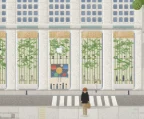
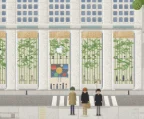
Draw Shane and Bee with Raufan at Apple Marunouchi.
Scenes can now set sig.company: people who step out of the door with him,
fan out beside him and walk off at his pace. Re-rendered the Apple
Marunouchi stamps and timeline stills, and bumped cache-busts.

Changed region(s): [[0.4722, 0.7059, 0.5556, 0.9832], [0.6389, 0.7311, 0.7222, 0.9832]]

diff --git a/last-seen/scenes/apple-marunouchi.js b/last-seen/scenes/apple-marunouchi.js
@@ -94,10 +94,12 @@
       road: '#9d9890', roadShade: '#8a857d', roadLite: '#b0aba3', zebra: '#f1efe9', zebraShade: '#d9d6cf', paveFar: '#cfcac0', kerbFar: '#b9b4aa',
       tree: '#6f8a48', tree2: '#88a35a', treeShade: '#4d6532', trunk: '#6a5848', trunkShade: '#4e4034', lampPost: '#3a3d40', lampPostShade: '#26282b', lampGlass: '#e9e6dc',
       bollard: '#5b5f63', bollardShade: '#43464a', bench: '#c9c3b8', benchShade: '#a9a297',
-      amHoodie: '#2b2b2e', amPants: '#b49b74', amString: '#4a4a4e', amCrown: '#7f8d99', amFront: '#c8692f', amShoe: '#ece6d6', amSole: '#f6f1e4', amShoeMark: '#8e9296', amSock: '#a3a3a0' },
+      amHoodie: '#2b2b2e', amPants: '#b49b74', amString: '#4a4a4e', amCrown: '#7f8d99', amFront: '#c8692f', amShoe: '#ece6d6', amSole: '#f6f1e4', amShoeMark: '#8e9296', amSock: '#a3a3a0',
+      shJacket: '#a8936b', shCap: '#56704a', shLegs: '#3d4656', shShoe: '#4a4744', shSole: '#e6e1d6', beCoat: '#2d2d32', beLegs: '#7c7b79', beShoe: '#2a2a2e', beSole: '#3c3c40' },
     light: { shadowAt: [[20, 70], [250, 80]],
       morning: { set: { sky: '#a9cfee', skyShade: '#cfe3f3', sunWash: '#fff1d2', tower: '#e2e3e1', towerShade: '#c3c8cb', pier: '#e7e8e5', pierShade: '#c4c9cc', reflectSky: '#c5dcef', twin: '#6a83a0', glassT: '#86aed6', mirror: '#9fb3b3',
-          amHoodie: '#2c2d31', amPants: '#ad9877', amCrown: '#7f8e9c', amFront: '#c26a36', amShoe: '#e6e4dc', amSock: '#a1a3a3' },
+          amHoodie: '#2c2d31', amPants: '#ad9877', amCrown: '#7f8e9c', amFront: '#c26a36', amShoe: '#e6e4dc', amSock: '#a1a3a3',
+          shJacket: '#a3916f', shCap: '#53704e', shLegs: '#3d4759', beCoat: '#26272c', beLegs: '#797b7d' },
         add: { back: [r(0, 0, 400, 92, 'sunWash', { a: .16 }), poly([0, VT - 12, 150, VT - 12, 60, 222, 0, 222], 'shadow', { a: .13 }), poly([150, VT - 12, CX + 44, VT - 12, CX + 44, 222, 60, 222], 'sunWash', { a: .1 }),
                       r(CX + 14, 0, 30, 214, 'sunWash', { a: .18 })].concat([1, 2, 3, 4, 5].map(function (i) { return r(P0 + i * PITCH + PW - 2.4, VT - 1, 2.4, VB - VT + 2, 'rim', { a: .55 }); })),
                front: [poly([150, 246, 262, 246, 318, 262, 206, 262], 'shadow', { a: .12 }), poly([40, 266, 44, 266, 150, 296, 140, 298], 'shadow', { a: .14 }), poly([368, 264, 378, 264, 400, 270, 400, 278], 'shadow', { a: .14 })] } },
@@ -105,7 +107,8 @@
                        front: [e(201, 247, 64, 3, 'shadow', { a: .14 })] } },
       golden: { set: { sky: '#e9c39f', skyShade: '#f3d6b6', tower: '#ecd3b4', towerShade: '#cdb093', towerLite: '#fbe7cb', pier: '#efd8bb', pierShade: '#cfb394', pierLite: '#fde9cf', reflectSky: '#f3c99f', twin: '#7a6c78', twin2: '#9b8584',
           alu: '#e3cdb3', aluLite: '#fff0da', aluShade: '#ae9a86', mirror: '#c9a488', mirror2: '#ecc8a4', side: '#c8a98a', far: '#e6c19a', glassT: '#d9a982', glassT2: '#f2c79c', road: '#ab9580', paveFar: '#dcc2a5',
-          tree: '#7f8a45', tree2: '#a3a454', amHoodie: '#352d2a', amPants: '#c6a477', amCrown: '#8f8c8e', amFront: '#d8763a', amShoe: '#f5e2c6', amSole: '#fbecd6', amSock: '#b4a596' },
+          tree: '#7f8a45', tree2: '#a3a454', amHoodie: '#352d2a', amPants: '#c6a477', amCrown: '#8f8c8e', amFront: '#d8763a', amShoe: '#f5e2c6', amSole: '#fbecd6', amSock: '#b4a596',
+          shJacket: '#bb9b6a', shCap: '#617146', shLegs: '#48475a', beCoat: '#2f2828', beLegs: '#8b7b70' },
         add: { back: [r(0, 0, 400, 92, 'sunWash', { a: .3 }), poly([0, 0, 400, 0, 400, 30, 0, 92], 'sunWash', { a: .12 }), poly([0, 70, 400, 40, 400, 244, 0, 244], 'shadow', { a: .1 }), r(CX + 14, 0, 30, 214, 'shadow', { a: .14 }), r(CX + 13, 0, 1.6, 214, 'rim', { a: .7 }),
                       r(0, 0, 1.6, 214, 'rim', { a: .5 })].concat([0, 1, 2, 3, 4, 5].map(function (i) { return r(P0 + i * PITCH, VT - 1, 1.6, VB - VT + 2, 'rim', { a: .7 }); })),
                front: [poly([140, 246, 262, 246, 190, 264, 60, 264], 'shadow', { a: .12 }), poly([368, 264, 378, 264, 300, 290, 280, 290], 'shadow', { a: .14 })] } },
@@ -116,18 +119,22 @@
           tree: '#1c2a20', tree2: '#243427', treeShade: '#111a14', trunk: '#1c1813', trunkShade: '#120f0c', lampPost: '#17181b', lampPostShade: '#0e0f11', lampGlass: '#ffe3ad',
           bollard: '#1e2024', bollardShade: '#141518', bench: '#2a2a30', benchShade: '#1e1e23',
           inWall: '#f7e3bf', inWallShade: '#dcbf90', inCeil: '#f0c682', inCeilD: '#c99a5a', inSlab: '#fbecd0', inPlanter: '#f6e4c4', inFloor: '#e6cc9f', inLeaf: '#6f8a3e', inLeaf2: '#8aa24c', inBamboo: '#93a050', inBamboo2: '#a8ad5c',
-          amHoodie: '#121214', amPants: '#5a4c3a', amString: '#2c2c30', amCrown: '#39414a', amFront: '#6e3a1e', amShoe: '#8f8a80', amSole: '#a6a094', amShoeMark: '#4a4c50', amSock: '#4c4c4b' },
+          amHoodie: '#121214', amPants: '#5a4c3a', amString: '#2c2c30', amCrown: '#39414a', amFront: '#6e3a1e', amShoe: '#8f8a80', amSole: '#a6a094', amShoeMark: '#4a4c50', amSock: '#4c4c4b',
+          shJacket: '#4f4534', shCap: '#25331f', shLegs: '#151a24', shShoe: '#1e1d1c', shSole: '#6a675f', beCoat: '#0e0e10', beLegs: '#2f2f31', beShoe: '#0d0d0e', beSole: '#1a1a1c' },
         add: { over: [0, 1, 2, 3, 4].map(function (i) { return { t: 'halo', x: P0 + PW + i * PITCH + (PITCH - PW) / 2, y: 226, rx: 30, ry: 9, n: 5, fill: 'pool', a: .05 }; }).concat([{ t: 'halo', x: 165, y: 216, rx: 170, ry: 9, n: 6, fill: 'pool', a: .07 },
           { t: 'halo', x: 41, y: 138, rx: 9, ry: 9, n: 5, fill: 'lamp', a: .12 }, { t: 'halo', x: 41, y: 262, rx: 30, ry: 6, n: 5, fill: 'pool', a: .05 }, { t: 'halo', x: 200, y: 250, rx: 120, ry: 12, n: 6, fill: 'pool', a: .035 }]) } } },
     breathe: { x: 136, y: 150, w: 50, h: 60, c: 'breathe', a: .04 },
     shoppers: [{ keys: [[0, 20], [10, 128], [13, 128], [23, 20]], period: 23, foot: 216, s: .5, coat: 'coatB', legs: 'legsDark', hair: 'hairDark', alpha: .95, shadow: false },
                { keys: [[0, 300], [8, 236], [11, 236], [19, 300]], period: 19, offset: 6, foot: 217, s: .5, coat: 'coatA', legs: 'legsDenim', hair: 'hairBrown', alpha: .95, shadow: false }],
-    passersby: [{ start: 6, every: 24, dir: -1, speed: 23, foot: 285, s: 1.24, coat: 'coatC', legs: 'legsDark', hair: 'hairDark', carry: 'tote', carryC: 'bagMark' },
+    passersby: [{ start: 11, every: 24, dir: -1, speed: 23, foot: 285, s: 1.24, coat: 'coatC', legs: 'legsDark', hair: 'hairDark', carry: 'tote', carryC: 'bagMark' },
                 { start: 15, every: 27, dir: 1, speed: 21, foot: 277, s: 1.14, coat: 'coatD', legs: 'legsDenim', hair: 'hairDark', carry: 'backpack', carryC: 'coatB' }],
     stamp: { x0: 60, x1: 316, y0: 30, y1: 272 },
     sig: { emerge: { x: 214, foot0: 226, foot1: 264, s0: .56, s1: 1.24, dur: 1.3 },
       person: { hood: true, coat: 'amHoodie', hat: false, campcap: 'amCrown', capFront: 'amFront', capBrim: 'amFront', legs: 'amPants', string: 'amString',
-        shoe: 'amShoe', sole: 'amSole', shoeMark: 'amShoeMark', sock: 'amSock' } },
+        shoe: 'amShoe', sole: 'amSole', shoeMark: 'amShoeMark', sock: 'amSock' },
+      // with Shane (a green cap, a khaki jacket) and Bee (a black jacket); the rest of both outfits is a neutral guess
+      company: [{ person: { coat: 'shJacket', long: -3, ballcap: 'shCap', hat: false, legs: 'shLegs', hair: 'hairDark', shoe: 'shShoe', sole: 'shSole', bag: false, stride: 12 }, dx: -25, dy: -2.5, ds: -.02, lag: .22 },
+                { person: { coat: 'beCoat', long: -3, hat: false, legs: 'beLegs', hair: 'hairDark', shoe: 'beShoe', sole: 'beSole', bag: false, stride: 11 }, dx: 27, dy: -1.2, ds: -.05, lag: .36 }] },
     build: function (L, F, P) {
       var R = rnd(41), i, x, y;
       L.push(r(0, 0, 400, 244, 'sky', { shade: grain('skyShade', .25, 'down', 1.6) }));

diff --git a/last-seen/last-seen.js b/last-seen/last-seen.js
@@ -777,25 +777,36 @@
       // signature figure while still inside the doorway
       var sig = S.signature, sp = st == null ? null : (t - st);
       var figs = [];
+      // sig.company: people with him ([{ person, dx, dy, ds, lag }]). Each one steps out of the same door `lag`
+      // seconds after him, fanning out to its own spot beside him (dx, dy in scene units, ds a scale factor), then
+      // walks off with him at his pace. Only he fires the exit.
+      var crew = [{ P: sig.person, dx: 0, dy: 0, ds: 0, lag: 0, lead: true }].concat((sig.company || []).map(function (m) {
+        return { P: m.person, dx: m.dx || 0, dy: m.dy || 0, ds: m.ds || 0, lag: m.lag || 0 }; }));
       if (sp != null && sp >= 0) {
         var e = sig.emerge, w = sig.walk;
-        if (sp < e.dur) {
-          var q = easeOut(sp / e.dur);
-          figs.push({ P: sig.person, x: e.x, foot: e.foot0 + (e.foot1 - e.foot0) * q, s: e.s0 + (e.s1 - e.s0) * q,
-            dist: sp * e.stepRate, facing: 'front', alpha: clamp(sp / e.fade, 0, 1), inside: q < .5 });
-        } else if (sp < e.dur + w.pause) {
-          figs.push({ P: sig.person, x: e.x, foot: e.foot1, s: e.s1, dist: 0, facing: 'stand', alpha: 1 });
-        } else {
-          var tw = sp - e.dur - w.pause, acc = Math.min(1, tw / w.accel);
-          var dist;
-          dist = tw < w.accel ? w.speed * tw * tw / (2 * w.accel) : w.speed * (tw - w.accel / 2);
-          var x = e.x + dist * w.dir, wf = e.foot1 + dist * (w.dy || 0), ws = e.s1 + dist * (w.ds || 0);
-          var gone = w.exitX ? (w.dir > 0 ? x > w.exitX : x < w.exitX) : (x > W + 6 || x < -6);
-          if (gone && exitedFor !== st && typeof st === 'number') { exitedFor = st; root.dispatchEvent(new CustomEvent('lastseen:exit', { bubbles: true, detail: { dir: w.dir, x: x / W, foot: Math.min(wf, H) / H } })); }
-          if (x > -30 && x < W + 30 && wf - ws * 40 < H) figs.push({ P: sig.person, x: x, foot: wf, s: ws, dist: dist, facing: w.dir > 0 ? 'right' : 'left', alpha: 1 });
-        }
+        crew.forEach(function (m) {
+          var ms = sp - m.lag;
+          if (ms < 0) return;
+          if (ms < e.dur) {
+            var q = easeOut(ms / e.dur);
+            figs.push({ P: m.P, x: e.x + m.dx * q, foot: e.foot0 + (e.foot1 - e.foot0) * q + m.dy * q, s: (e.s0 + (e.s1 - e.s0) * q) * (1 + m.ds * q),
+              dist: ms * e.stepRate, facing: 'front', alpha: clamp(ms / e.fade, 0, 1), inside: q < .5 });
+          } else if (sp < e.dur + w.pause) {
+            figs.push({ P: m.P, x: e.x + m.dx, foot: e.foot1 + m.dy, s: e.s1 * (1 + m.ds), dist: 0, facing: 'stand', alpha: 1 });
+          } else {
+            var tw = sp - e.dur - w.pause;
+            var dist = tw < w.accel ? w.speed * tw * tw / (2 * w.accel) : w.speed * (tw - w.accel / 2);
+            var x = e.x + dist * w.dir, wf = e.foot1 + dist * (w.dy || 0), ws = e.s1 + dist * (w.ds || 0);
+            if (m.lead) {
+              var gone = w.exitX ? (w.dir > 0 ? x > w.exitX : x < w.exitX) : (x > W + 6 || x < -6);
+              if (gone && exitedFor !== st && typeof st === 'number') { exitedFor = st; root.dispatchEvent(new CustomEvent('lastseen:exit', { bubbles: true, detail: { dir: w.dir, x: x / W, foot: Math.min(wf, H) / H } })); }
+            }
+            x += m.dx; wf += m.dy; ws *= 1 + m.ds;
+            if (x > -30 && x < W + 30 && wf - ws * 40 < H) figs.push({ P: m.P, x: x, foot: wf, s: ws, dist: dist, facing: w.dir > 0 ? 'right' : 'left', alpha: 1 });
+          }
+        });
       } else if (st === 'still') {
-        figs.push({ P: sig.person, x: sig.still.x, foot: sig.emerge.foot1, s: sig.emerge.s1, dist: 0, facing: 'front', alpha: 1 });
+        crew.forEach(function (m) { figs.push({ P: m.P, x: sig.still.x + m.dx, foot: sig.emerge.foot1 + m.dy, s: sig.emerge.s1 * (1 + m.ds), dist: 0, facing: 'front', alpha: 1 }); });
       }
       figs.filter(function (g) { return g.inside; }).forEach(function (g) { person(f, g.P, pal, g.x, g.foot, g.s, g.dist, g.facing, g.alpha, rimFor(g)); });
       // facade over the interior (a place with nothing in front of the interior skips the layer)

diff --git a/timeline/index.html b/timeline/index.html
@@ -54,7 +54,7 @@
       ['apple-marunouchi', 'cinta-jawa-shibuya', 'tokyo-nihombashi-tower', 'niko-and-shibuya', 'tsuchiya-kaban-nakameguro', 'fuglen-noborito', 'tokyo-camii', 'lifefit-yurigaoka', 'yoyogi-park', 'tokyo-big-sight', 'mufg-park', 'stayful-life-store', 'nadoya-no-katte', 'et-cultural-coffeehouse'].forEach(function (id) {
         var l = document.createElement('link');
         l.rel = 'preload'; l.as = 'image';
-        l.href = '/timeline/img/' + id + '-' + tod + '-s.webp?v=7';
+        l.href = '/timeline/img/' + id + '-' + tod + '-s.webp?v=8';
         document.head.appendChild(l);
       });
     })();
@@ -90,9 +90,9 @@
   <div class="t3-foot"><div class="m-page"><button type="button" class="t3-sound" aria-pressed="true">Sound · on</button></div></div>
   <script src="/js/main.js?v=36"></script>
   <script src="/js/light-menu.js?v=2" defer></script>
-  <script src="/last-seen/last-seen.js?v=9" defer></script>
+  <script src="/last-seen/last-seen.js?v=10" defer></script>
   <script src="/last-seen/scenes/niko-and-shibuya.js?v=4" defer></script>
-  <script src="/last-seen/scenes/_kit.js?v=7" defer></script>
+  <script src="/last-seen/scenes/_kit.js?v=8" defer></script>
   <script src="/last-seen/scenes/tokyo-big-sight.js?v=4" defer></script>
   <script src="/last-seen/scenes/yoyogi-park.js?v=4" defer></script>
   <script src="/last-seen/scenes/tokyo-camii.js?v=4" defer></script>
@@ -105,12 +105,12 @@
   <script src="/last-seen/scenes/et-cultural-coffeehouse.js?v=4" defer></script>
   <script src="/last-seen/scenes/tokyo-nihombashi-tower.js?v=1" defer></script>
   <script src="/last-seen/scenes/cinta-jawa-shibuya.js?v=2" defer></script>
-  <script src="/last-seen/scenes/apple-marunouchi.js?v=1" defer></script>
+  <script src="/last-seen/scenes/apple-marunouchi.js?v=2" defer></script>
   <script src="/timeline/lib/common.js?v=4" defer></script>
   <script src="/timeline/lib/data.js?v=10" defer></script>
   <script src="/timeline/lib/feel.js?v=1" defer></script>
   <script src="/timeline/lib/live.js?v=1" defer></script>
-  <script src="/timeline/list.js?v=8" defer></script>
+  <script src="/timeline/list.js?v=9" defer></script>
   <script src="/timeline/rail.js?v=2" defer></script>
 </body>
 </html>

diff --git a/index.html b/index.html
@@ -341,16 +341,16 @@
   <canvas id="confetti-canvas"></canvas>
   <script src="/js/main.js?v=37"></script>
   <script src="/js/light-menu.js?v=2" defer></script>
-  <script src="/last-seen/last-seen.js?v=9" defer></script>
+  <script src="/last-seen/last-seen.js?v=10" defer></script>
   <script src="/last-seen/scenes/niko-and-shibuya.js?v=4" defer></script>
-  <script src="/last-seen/scenes/_kit.js?v=7" defer></script>
+  <script src="/last-seen/scenes/_kit.js?v=8" defer></script>
   <script src="/last-seen/scenes/tokyo-nihombashi-tower.js?v=1" defer></script>
   <script src="/last-seen/scenes/cinta-jawa-shibuya.js?v=2" defer></script>
-  <script src="/last-seen/scenes/apple-marunouchi.js?v=1" defer></script>
+  <script src="/last-seen/scenes/apple-marunouchi.js?v=2" defer></script>
   <script src="/timeline/lib/data.js?v=10" defer></script>
-  <script src="/js/stamp-row.js?v=1" defer></script>
+  <script src="/js/stamp-row.js?v=2" defer></script>
   <script src="/js/postcard.js?v=9" defer></script>
-  <script src="/js/notes-deck.js?v=9" defer></script>
+  <script src="/js/notes-deck.js?v=10" defer></script>
   <script src="/js/peek.js?v=2" defer></script>
   <script src="/components/Stabilo/stabilo.js?v=5" defer></script>
 

diff --git a/cards.html b/cards.html
@@ -85,9 +85,9 @@
     </div>
   </div>
 
-  <script src="/last-seen/last-seen.js?v=9"></script>
+  <script src="/last-seen/last-seen.js?v=10"></script>
   <script src="/last-seen/scenes/niko-and-shibuya.js?v=4"></script>
-  <script src="/last-seen/scenes/_kit.js?v=7"></script>
+  <script src="/last-seen/scenes/_kit.js?v=8"></script>
   <script src="/last-seen/scenes/tokyo-big-sight.js?v=4"></script>
   <script src="/last-seen/scenes/yoyogi-park.js?v=4"></script>
   <script src="/last-seen/scenes/tokyo-camii.js?v=4"></script>
@@ -100,7 +100,7 @@
   <script src="/last-seen/scenes/et-cultural-coffeehouse.js?v=4"></script>
   <script src="/last-seen/scenes/tokyo-nihombashi-tower.js?v=1"></script>
   <script src="/last-seen/scenes/cinta-jawa-shibuya.js?v=2"></script>
-  <script src="/last-seen/scenes/apple-marunouchi.js?v=1"></script>
+  <script src="/last-seen/scenes/apple-marunouchi.js?v=2"></script>
   <script src="/timeline/lib/data.js?v=10"></script>
   <script src="/gallery/sound.js?v=1"></script>
   <script src="/js/light-menu.js?v=2" defer></script>

diff --git a/last-seen/scenes/_kit.js b/last-seen/scenes/_kit.js
@@ -164,7 +164,7 @@
     // o.person: a per-scene outfit over the default (e.g. { hood: true, coat: 'nikoHoodie', hat: 'nikoHat' }); other scenes keep the coat
     return { delay: .1, person: Object.assign({ coat: 'hoodie', legs: 'legsDark', hair: 'hairDark', hat: 'hat', bag: 'bag', bagMark: 'bagMark', stride: 12 }, o.person),
       emerge: Object.assign({ x: 200, foot0: 231, foot1: 264, s0: .82, s1: 1.25, dur: 1.25, fade: .3, stepRate: 11 }, o.emerge),
-      walk: { pause: .45, accel: .7, speed: 30, dir: 1, dy: .16, ds: .0011, exitX: 356 }, still: { x: (o.emerge && o.emerge.x) || 200, t: 2 } };
+      walk: { pause: .45, accel: .7, speed: 30, dir: 1, dy: .16, ds: .0011, exitX: 356 }, company: o.company || [], still: { x: (o.emerge && o.emerge.x) || 200, t: 2 } };
   }
   // the guest card stock (postcard back, gallery papers): the same paper as /scenes/niko-and-shibuya.js in every light
   var PAPER = {

diff --git a/js/notes-deck.js b/js/notes-deck.js
@@ -167,10 +167,10 @@
   function ensureScenes(keys) {
     var needKit = keys.some(function (k) { return k && k !== 'niko-and-shibuya'; });
     var chain = Promise.resolve();
-    if (needKit && !(window.LastSeenKit)) chain = chain.then(function () { return loadScript('/last-seen/scenes/_kit.js?v=7'); });
+    if (needKit && !(window.LastSeenKit)) chain = chain.then(function () { return loadScript('/last-seen/scenes/_kit.js?v=8'); });
     keys.forEach(function (key) {
       if (!key || (window.LastSeen && LastSeen.byId && LastSeen.byId(key))) return;
-      chain = chain.then(function () { return loadScript('/last-seen/scenes/' + key + '.js?v=4'); });
+      chain = chain.then(function () { return loadScript('/last-seen/scenes/' + key + '.js?v=5'); });
     });
     return chain.catch(function () {});
   }

diff --git a/timeline/list.js b/timeline/list.js
@@ -12,7 +12,7 @@
   function ja() { return TL.lang() === 'ja'; }
   function esc(s) { return String(s).replace(/[&<>"]/g, function (c) { return { '&': '&amp;', '<': '&lt;', '>': '&gt;', '"': '&quot;' }[c]; }); }
   function tod() { return html.getAttribute('data-tod') || 'midday'; }
-  function img(p, sz) { return '/timeline/img/' + p.scene + '-' + tod() + '-' + sz + '.webp?v=7'; }
+  function img(p, sz) { return '/timeline/img/' + p.scene + '-' + tod() + '-' + sz + '.webp?v=8'; }
   function small() { return innerWidth <= 600; }
   function barH() { return small() ? 68 : 76; }
   function mhH() { return 48; }

diff --git a/js/stamp-row.js b/js/stamp-row.js
@@ -22,7 +22,7 @@
     if (!t && window.LastSeen) { try { t = LastSeen.period(LastSeen.byId(all[0].place) || LastSeen.newest()); } catch (e) {} }
     return LIGHTS.indexOf(t) >= 0 ? t : (html.getAttribute('data-theme') === 'dark' ? 'night' : 'midday');
   }
-  function src(p, L) { return '/last-seen/stamps/' + p.place + '-' + L + '.webp'; }
+  function src(p, L) { return '/last-seen/stamps/' + p.place + '-' + L + '.webp?v=2'; }
   function img(p, L) { return '<img src="' + src(p, L) + '" data-place="' + p.place + '" alt="" width="48" height="40" decoding="async">'; }
 
   var L0 = light();
